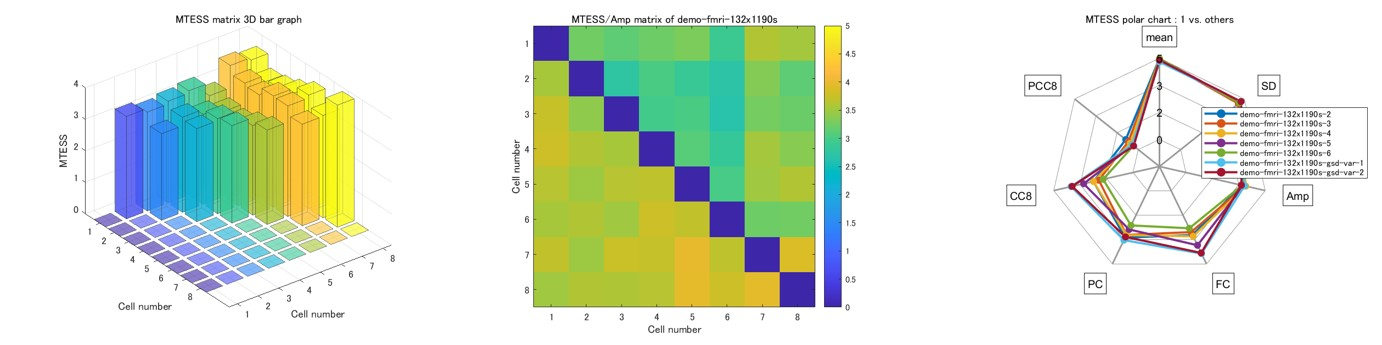
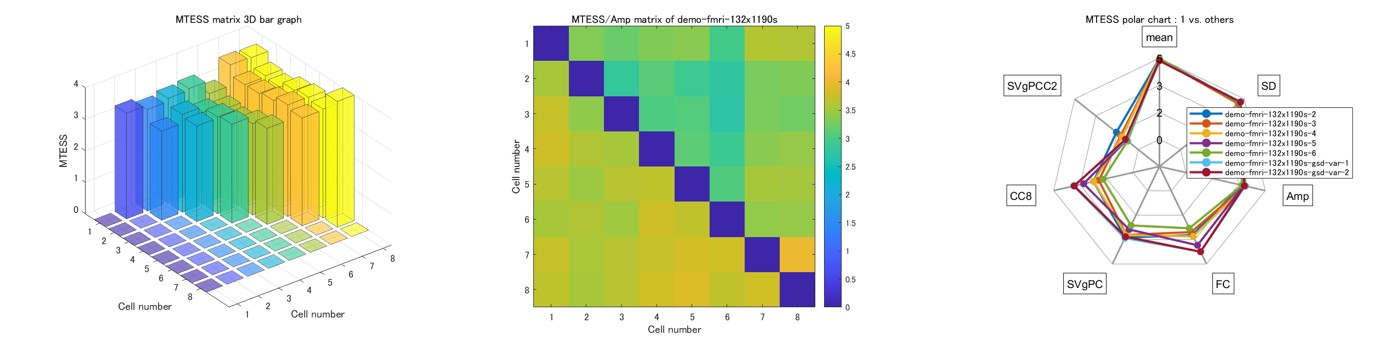
fixed cache name. fixed demo figures.

diff --git a/mtess.m b/mtess.m
@@ -28,8 +28,8 @@ function mtess(varargin)
     handles.range = NaN;
     handles.nDft = 100;
     handles.pcc = 0;
-    handles.cclag = 8;
-    handles.pcclag = 8;
+    handles.cclag = NaN;
+    handles.pcclag = NaN;
     handles.outpath = 'results';
     handles.format = 1;
     handles.transform = 0;
@@ -245,23 +245,30 @@ function processInputFiles(handles)
     end
     
     % calc MTESS
-    if handles.pcc == 1
-        pccFunc = @calcPartialCrossCorrelation;
-    elseif handles.pcc == 2
+    pcName = 'PC';
+    pccFunc = @calcPartialCrossCorrelation;
+    cclag = 8;
+    pcclag = 8;
+    if handles.pcc == 2
         pccFunc = @calcSvPartialCrossCorrelation;
+        pcName = 'SVgPC';
+        pcclag = 2;
     else
-        if nodeNum < 48
-            pccFunc = @calcPartialCrossCorrelation;
-        else
+        if nodeNum >= 48
             pccFunc = @calcSvPartialCrossCorrelation;
+            pcName = 'SVgPC';
+            pcclag = 2;
         end
     end
+    if ~isnan(handles.cclag), cclag = handles.cclag; end
+    if ~isnan(handles.pcclag), pcclag = handles.pcclag; end
+
     if handles.noCache > 0
         cache = {};
     else
         cache = names;
     end
-    [MTS, MTSp, nMTS, nMTSp, Means, Stds, Amps, FCs, PCs, CCs, PCCs] = calcMtess(CX, handles.range, handles.nDft, pccFunc, handles.cclag, handles.pcclag, cache);
+    [MTS, MTSp, nMTS, nMTSp, Means, Stds, Amps, FCs, PCs, CCs, PCCs] = calcMtess(CX, handles.range, handles.nDft, pccFunc, cclag, pcclag, cache);
 
     % output result matrix files
     saveResultFiles(handles, MTS, MTSp, nMTS, nMTSp, savename);
@@ -289,7 +296,7 @@ function processInputFiles(handles)
     % show 1 vs. others MTESS statistical properties
     if handles.showProp > 0
         P=squeeze(MTSp(1,2:length(CX),:));
-        figure; plotMtessSpiderPlot(P);
+        figure; plotMtessSpiderPlot(P, cclag, pcclag, pcName);
         legend(names(2:length(CX)));
         title('MTESS polar chart : 1 vs. others');
     end

diff --git a/lib/calcMtess.m b/lib/calcMtess.m
@@ -49,6 +49,8 @@ function [MTS, MTSp, nMTS, nMTSp, Means, Stds, Amps, FCs, PCs, CCs, PCCs] = calc
     if ~isempty(CXNames) && ~exist('results/cache','dir')
         mkdir('results/cache');
     end
+    if isequal(pccFunc,@calcSvPartialCrossCorrelation), palgo='svp'; else palgo='p'; end
+
     Means = single(nan(cLen,nodeNum));
     Stds = single(nan(cLen,nodeNum));
     Amps = single(nan(cLen,nodeNum,nDft/2-1));
@@ -59,7 +61,7 @@ function [MTS, MTSp, nMTS, nMTSp, Means, Stds, Amps, FCs, PCs, CCs, PCCs] = calc
     for nn=1:cLen
         X = CX{nn};
         if ~isempty(CXNames)
-            cachef = ['results/cache/mtess-' CXNames{nn} '-' num2str(size(X,1)) 'x' num2str(size(X,2)) '.mat'];
+            cachef = ['results/cache/mtess-' CXNames{nn} '-' num2str(size(X,1)) 'x' num2str(size(X,2)) 'd' num2str(nDft) 'c' num2str(ccLags) palgo num2str(pccLags) '.mat'];
         end
         if ~isempty(CXNames) && exist(cachef,'file')
             disp(['load cache of ' CXNames{nn}]);
